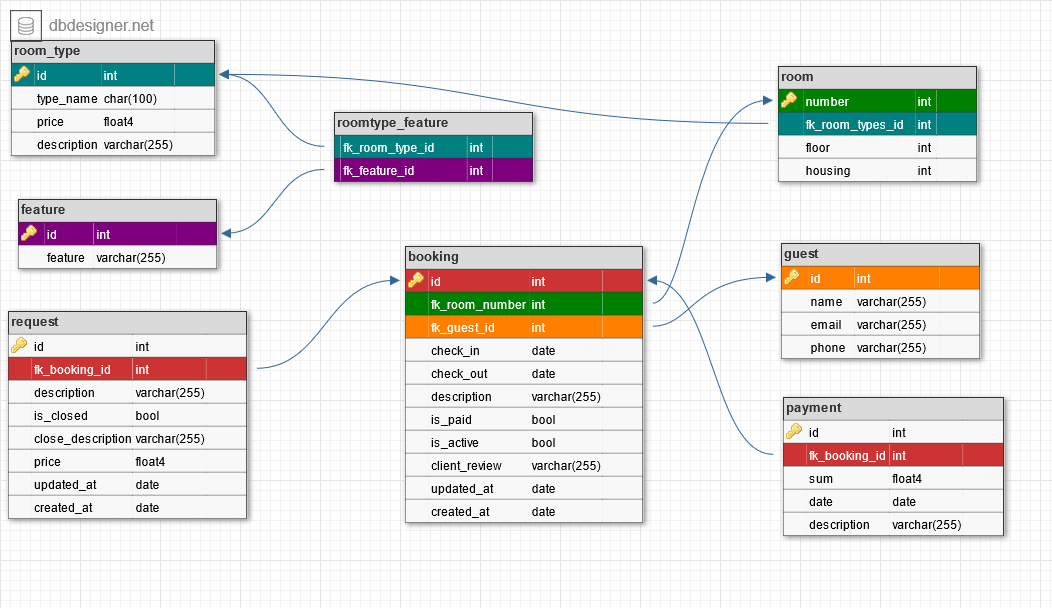
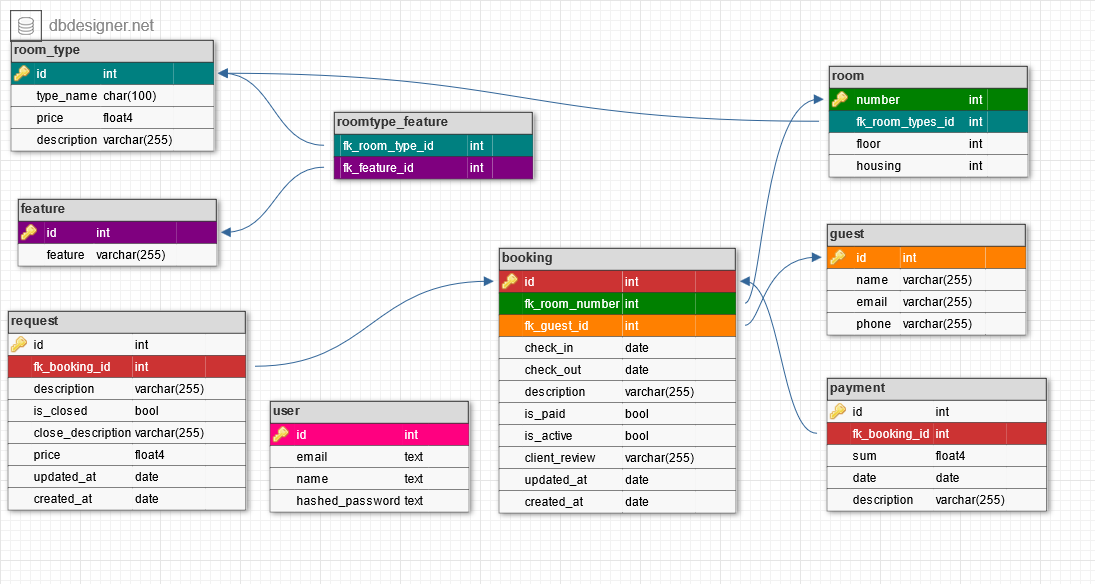
Add general information and routers info

diff --git a/docs/general-info.md b/docs/general-info.md
@@ -1,16 +1,18 @@
 This project serves a simple hotel administrations system API that includes the following aspects (CRUD):
 
-    * room categories can be created, viewed, updated, and deleted
+    * room categories can be created, viewed, updated, deleted and modified with features
     * rooms can be created, viewed, updated, and deleted
     * guests can be created, viewed, updated, and deleted
     * bookings can be created, viewed, updated, and deleted
     * payments can be created, viewed, updated, and deleted
     * requests can be created, viewed, updated, and deleted
+    * users can be created, viewed, updated, and deleted by admins
 
-## Room categories (types)
-Room categories has room's characteristics.
+## Room categories (types) 
+Room categories have room's characteristics.<br>
+[View rooms routers.](overview.md#rooms)
 
-A room category has basic information, such as:
+A room categories have basic information, such as:
 
     * id
     * name
@@ -18,18 +20,20 @@ A room category has basic information, such as:
     * description
 
 ## Room features
-Room features has many-to-many connection with room categories. Each room can have some features and vice versa each feature can be in many room's category.
+Room features have many-to-many connection with room categories. Each room can have some features and vice versa, each feature can be in many room's category.<br>
+[View rooms routers.](overview.md#rooms)
 
-A room features has basic information, such as:
+A room features have basic information, such as:
 
     * id
     * feature
 
 ## Room
-Room is the main unit when working with bookings. Each room must be connected with one room categories (types) to get information about price and features in the room.
-Rooms are identified by their room number.
+Room is the main unit when working with bookings. Each room must be connected with one room categories (types) to get information about price and features in the room.<br>
+Rooms are identified by their room number.<br>
+[View rooms routers.](overview.md#rooms)
 
-A room has basic information, such as:
+A rooms have basic information, such as:
 
     * number
     * room category
@@ -37,6 +41,8 @@ A room has basic information, such as:
     * number of the house
 
 ## Guests
+[View guests routers.](overview.md#guests)<br>
+
 Guests can have multiple bookings and have basic information, such as:
 
     * id
@@ -45,9 +51,10 @@ Guests can have multiple bookings and have basic information, such as:
     * phone number
 
 ## Bookings
-Bookings are connected to guests and rooms. When a guest makes a booking, only one room is assigned. Hotel staff can not change is_paid checkbox - it is calculated automatically based on payments.
+Bookings are connected to guests and rooms. When a guest makes a booking, only one room is assigned. Hotel staff can not change is_paid checkbox - it is calculated automatically based on payments.<br>
+[View bookings routers.](overview.md#bookings)
 
-Booking have basic information, such as:
+Bookings have basic information, such as:
 
     * id
     * room number
@@ -62,9 +69,10 @@ Booking have basic information, such as:
     * created_at
 
 ## Payments
-Payments has the information about all financial transactions. Each payment connected with one booking. After adding each payment is_paid checkbox is recalculate for connected booking.
+Payments have the information about all financial transactions. Each payment connected with one booking. After adding each payment is_paid checkbox is recalculating for connected booking.<br>
+[View payments routers.](overview.md#payments)
 
-Payment have basic information, such as:
+Payments have basic information, such as:
     
     * id
     * booking id
@@ -73,7 +81,8 @@ Payment have basic information, such as:
     * description
 
 ## Requests
-For each booking can be created requests like "need to clean", "need to be repaired" etc.
+For each booking can be created requests like "need to clean", "need to be repaired" etc.<br>
+[View requests routers.](overview.md#requests)
 
 Requests have basic information, such as:
 
@@ -85,3 +94,17 @@ Requests have basic information, such as:
     * price
     * updated_at
     * created_at    
+
+## Users
+Have two types of users: ordinary staff and admins. Admins additionally can add, change and delete any user. First user will always be created as admin.<br>
+[View users routers.](overview.md#users)
+
+
+Users have basic information, such as:
+
+    * id
+    * email
+    * name
+    * password
+    * is_active
+    * is_admin

diff --git a/docs/index.md b/docs/index.md
@@ -1,32 +1,58 @@
 # Hotel_API
-Generic Hotel API for a basic hotel administrations system created with FastAPI and PostgreSQL.
+Generic Hotel API for a basic hotel administrations system created with FastAPI and PostgreSQL to simplify and structure hotel operations.
 
 
 ## Table Of Contents
 
-1. [Installation](installation.md)
-2. [General info](general-info.md)
-3. [Database design](HotelAPI_db.md)
-<!-- 4. [How-To Guides](how-to-guides.md) -->
-<!-- 5. [Explanation](explanation.md) -->
+1. [General info](general-info.md)
+2. [Database design](HotelAPI_db.md)
+3. [Installation](installation.md)
+4. [Routers overview](overview.md)
+5. [How-To Guides](how-to-guides.md)
 
 ## Project Overview
 
-::: routers
+Features
+
+    Create different types of room with own price and fixtures.
+    Store and search information about guests, bookings and hotel facilities.
+    Create Bookings depending on the room state (free or booked).
+    Check if booking's payment is full, if guest has any open requests.
+    Role based access to functionality (Admin/User).
 
 
-For full documentation visit [mkdocs.org](https://www.mkdocs.org).
+Getting Started
 
-## Commands
+    Setup database (heroku-postgresql hobby-dev is a great free option)
+    Add database URL to .env file
+    Setup keys in .env file as per need.
+    Setup a local environment
+    Update database via migrations
+    Start app and create first user (admin)
 
-* `mkdocs new [dir-name]` - Create a new project.
-* `mkdocs serve` - Start the live-reloading docs server.
-* `mkdocs build` - Build the documentation site.
-* `mkdocs -h` - Print help message and exit.
 
 ## Project layout
 
-    mkdocs.yml    # The configuration file.
+    db.py            # Config files for database connection
+    main.py          # Main executable file
+    mkdocs.yml       # The configuration file for mkdocs.
+    requirements.txt # File with dependencies
     docs/
-        index.md  # The documentation homepage.
-        ...       # Other markdown pages, images and other files.
+        index.md     # The documentation homepage.
+        ...          # Other markdown pages, images and other files.
+    crud/
+        rooms.py     # Modules to work with database's models "rooom"
+        ...          # Other modules to work with similar models in database
+    migration/
+        version/     # Folder with transaction to prepare tables in database
+        env.py       # Alembic Config object
+        ...          # Other files for Alembic
+    models/
+        room.py      # Database models with information about room
+        ...          # Other modelues with db models
+    schemas/
+        room.py      # Pydantic schemas for rooms models
+        ...          # Other files with pydantic schemas
+    utils/
+        users.py     # Helper functions for auth logic
+

diff --git a/docs/how-to-guides.md b/docs/how-to-guides.md
@@ -1,0 +1,15 @@
+## Migrations
+
+You can also run the migrations with alembic commands to prepare database.
+
+### Update database
+
+* Make sure you create a "revision" of your models and that you "upgrade" your database with that revision every time you change them. As this is what will update the tables in your database.
+
+```
+alembic revision --autogenerate -m "Update required tables"
+```
+* After creating the revision, run the migration in the database (this is what will actually change the database):
+```
+alembic upgrade head
+```

diff --git a/docs/overview.md b/docs/overview.md
@@ -1,0 +1,28 @@
+You can open your browser and interact with these URLs:
+
+    * Backend, JSON based web API based on OpenAPI: http://localhost:8001
+    * Automatic interactive documentation with Swagger UI (from the OpenAPI backend): http://localhost:8001/docs
+
+# Rooms, Roomtypes, Roomfeatures
+:::routers.rooms
+<br>
+
+# Guests
+:::routers.guests
+<br>
+
+# Bookings
+:::routers.bookings
+<br>
+
+# Payments
+:::routers.payments
+<br>
+
+# Requests
+:::routers.requests
+<br>
+
+# Users
+:::routers.users
+<br>
